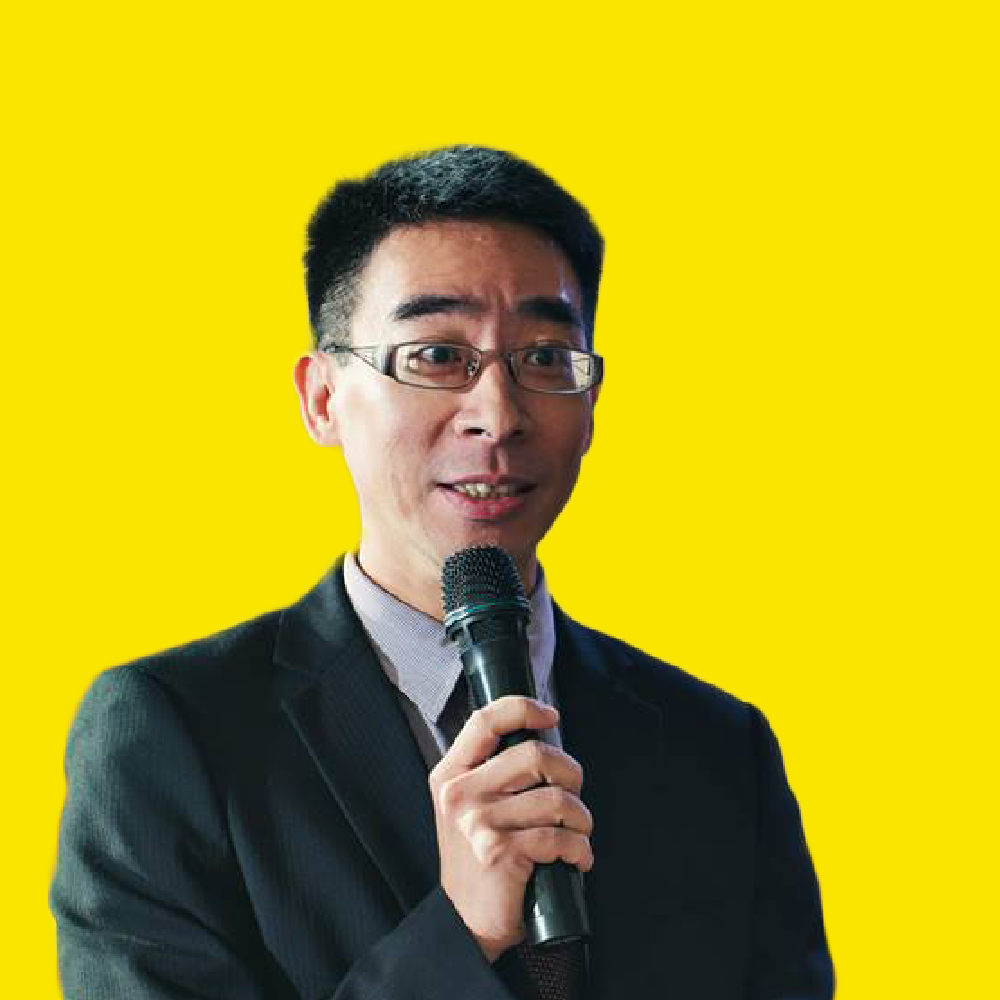
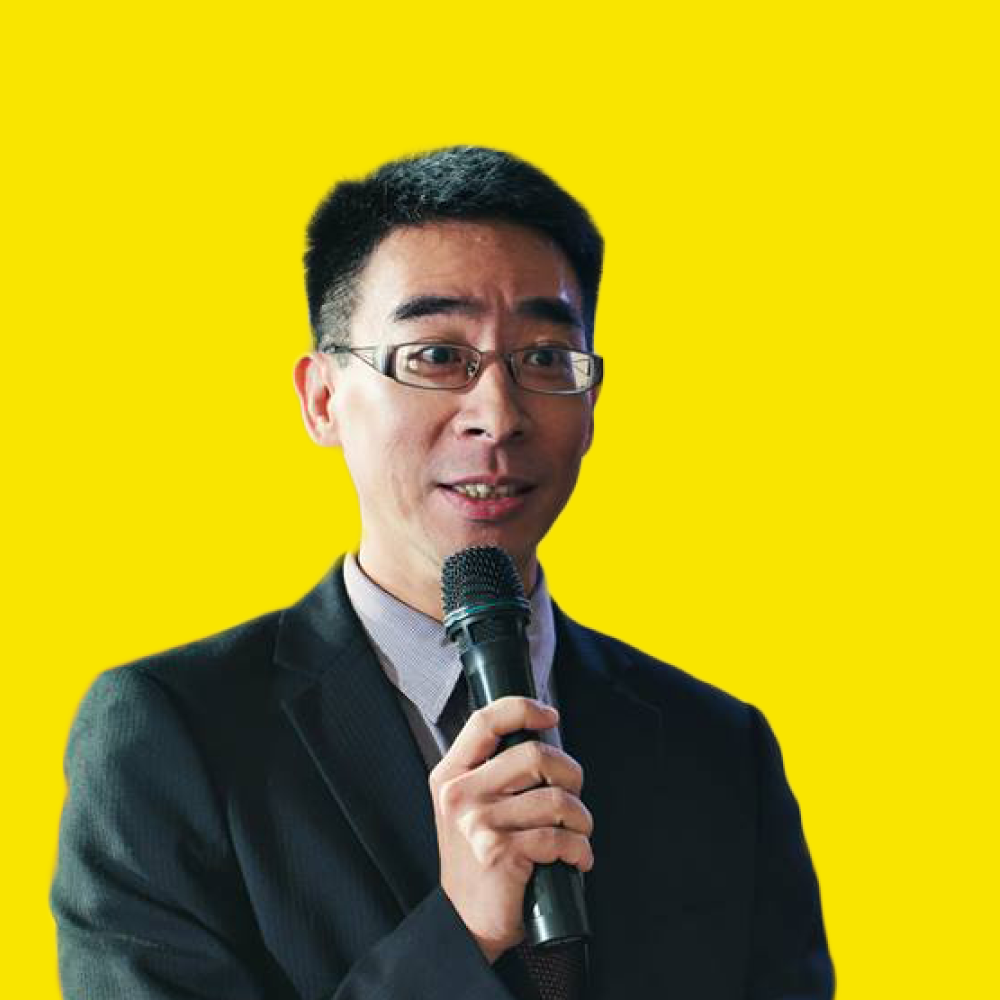
fix Slow Png
fix Slow Png

diff --git a/daniel.html b/daniel.html
@@ -201,6 +201,6 @@ $(document).ready(function(){
                       |/|  | |  |
                         |  | |  |
                         |  | |  |
-                        '--'-'--'
+                        '~~'-'~~'
 -->
 </html>
